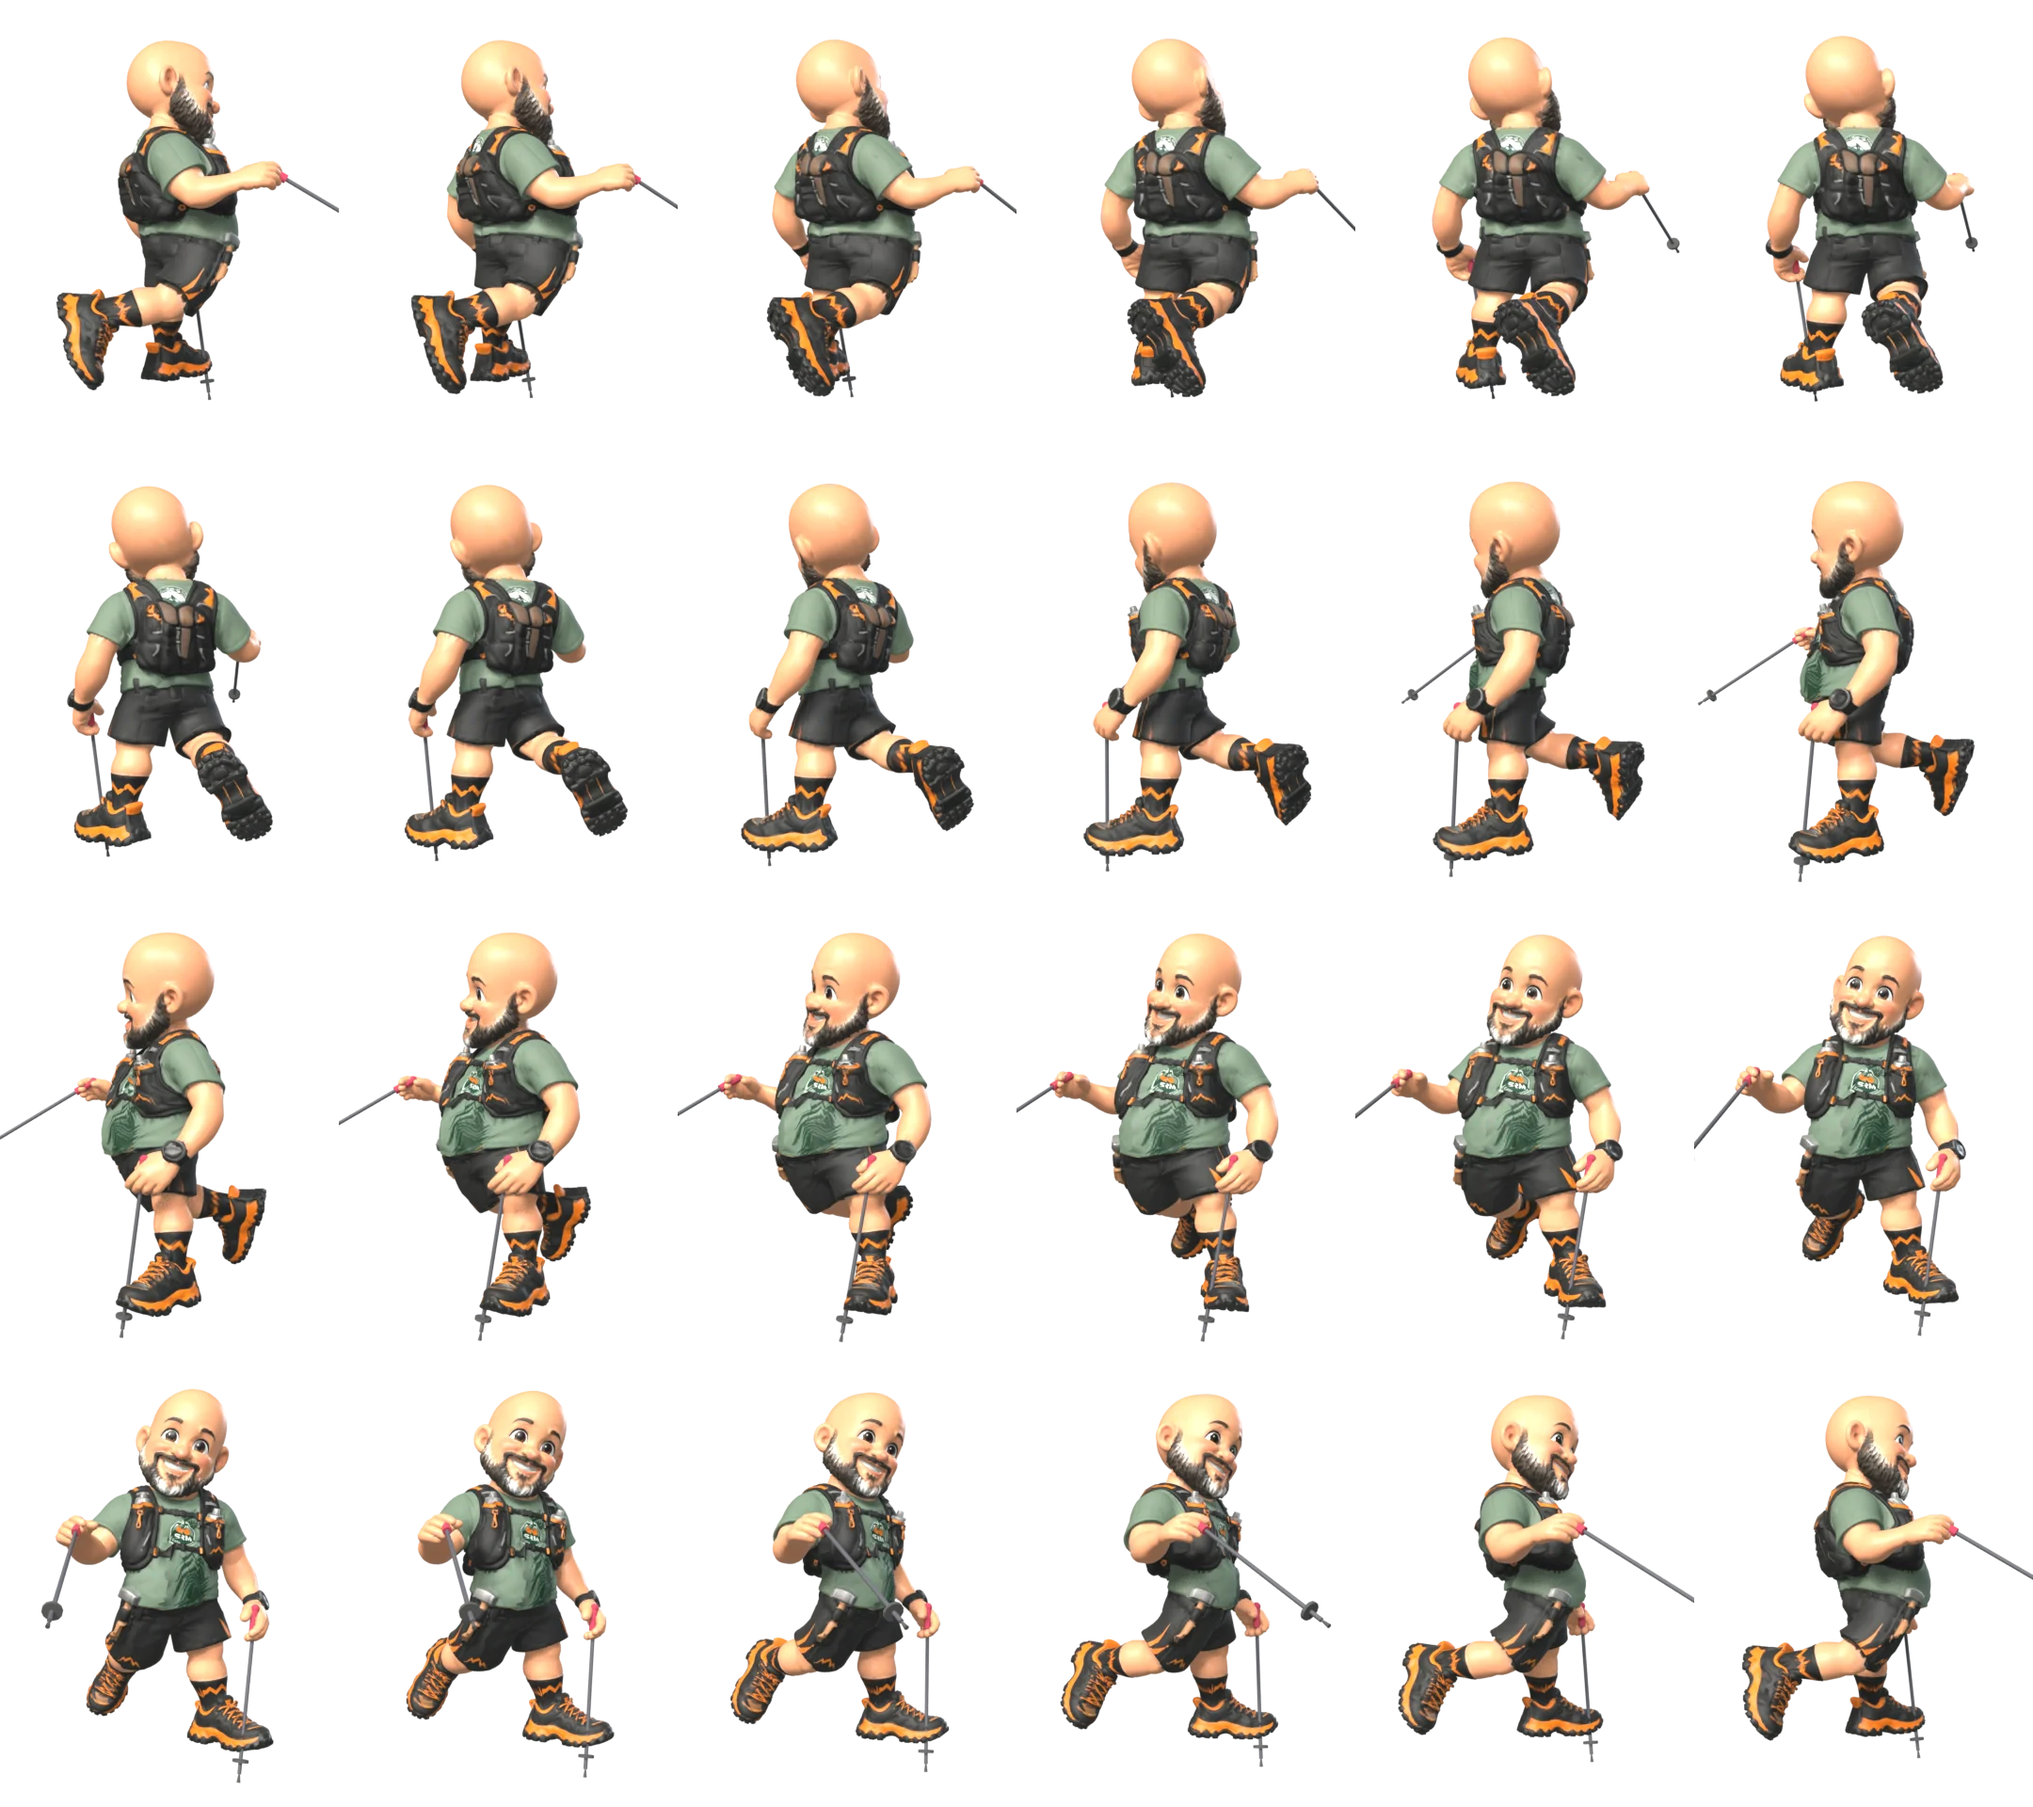
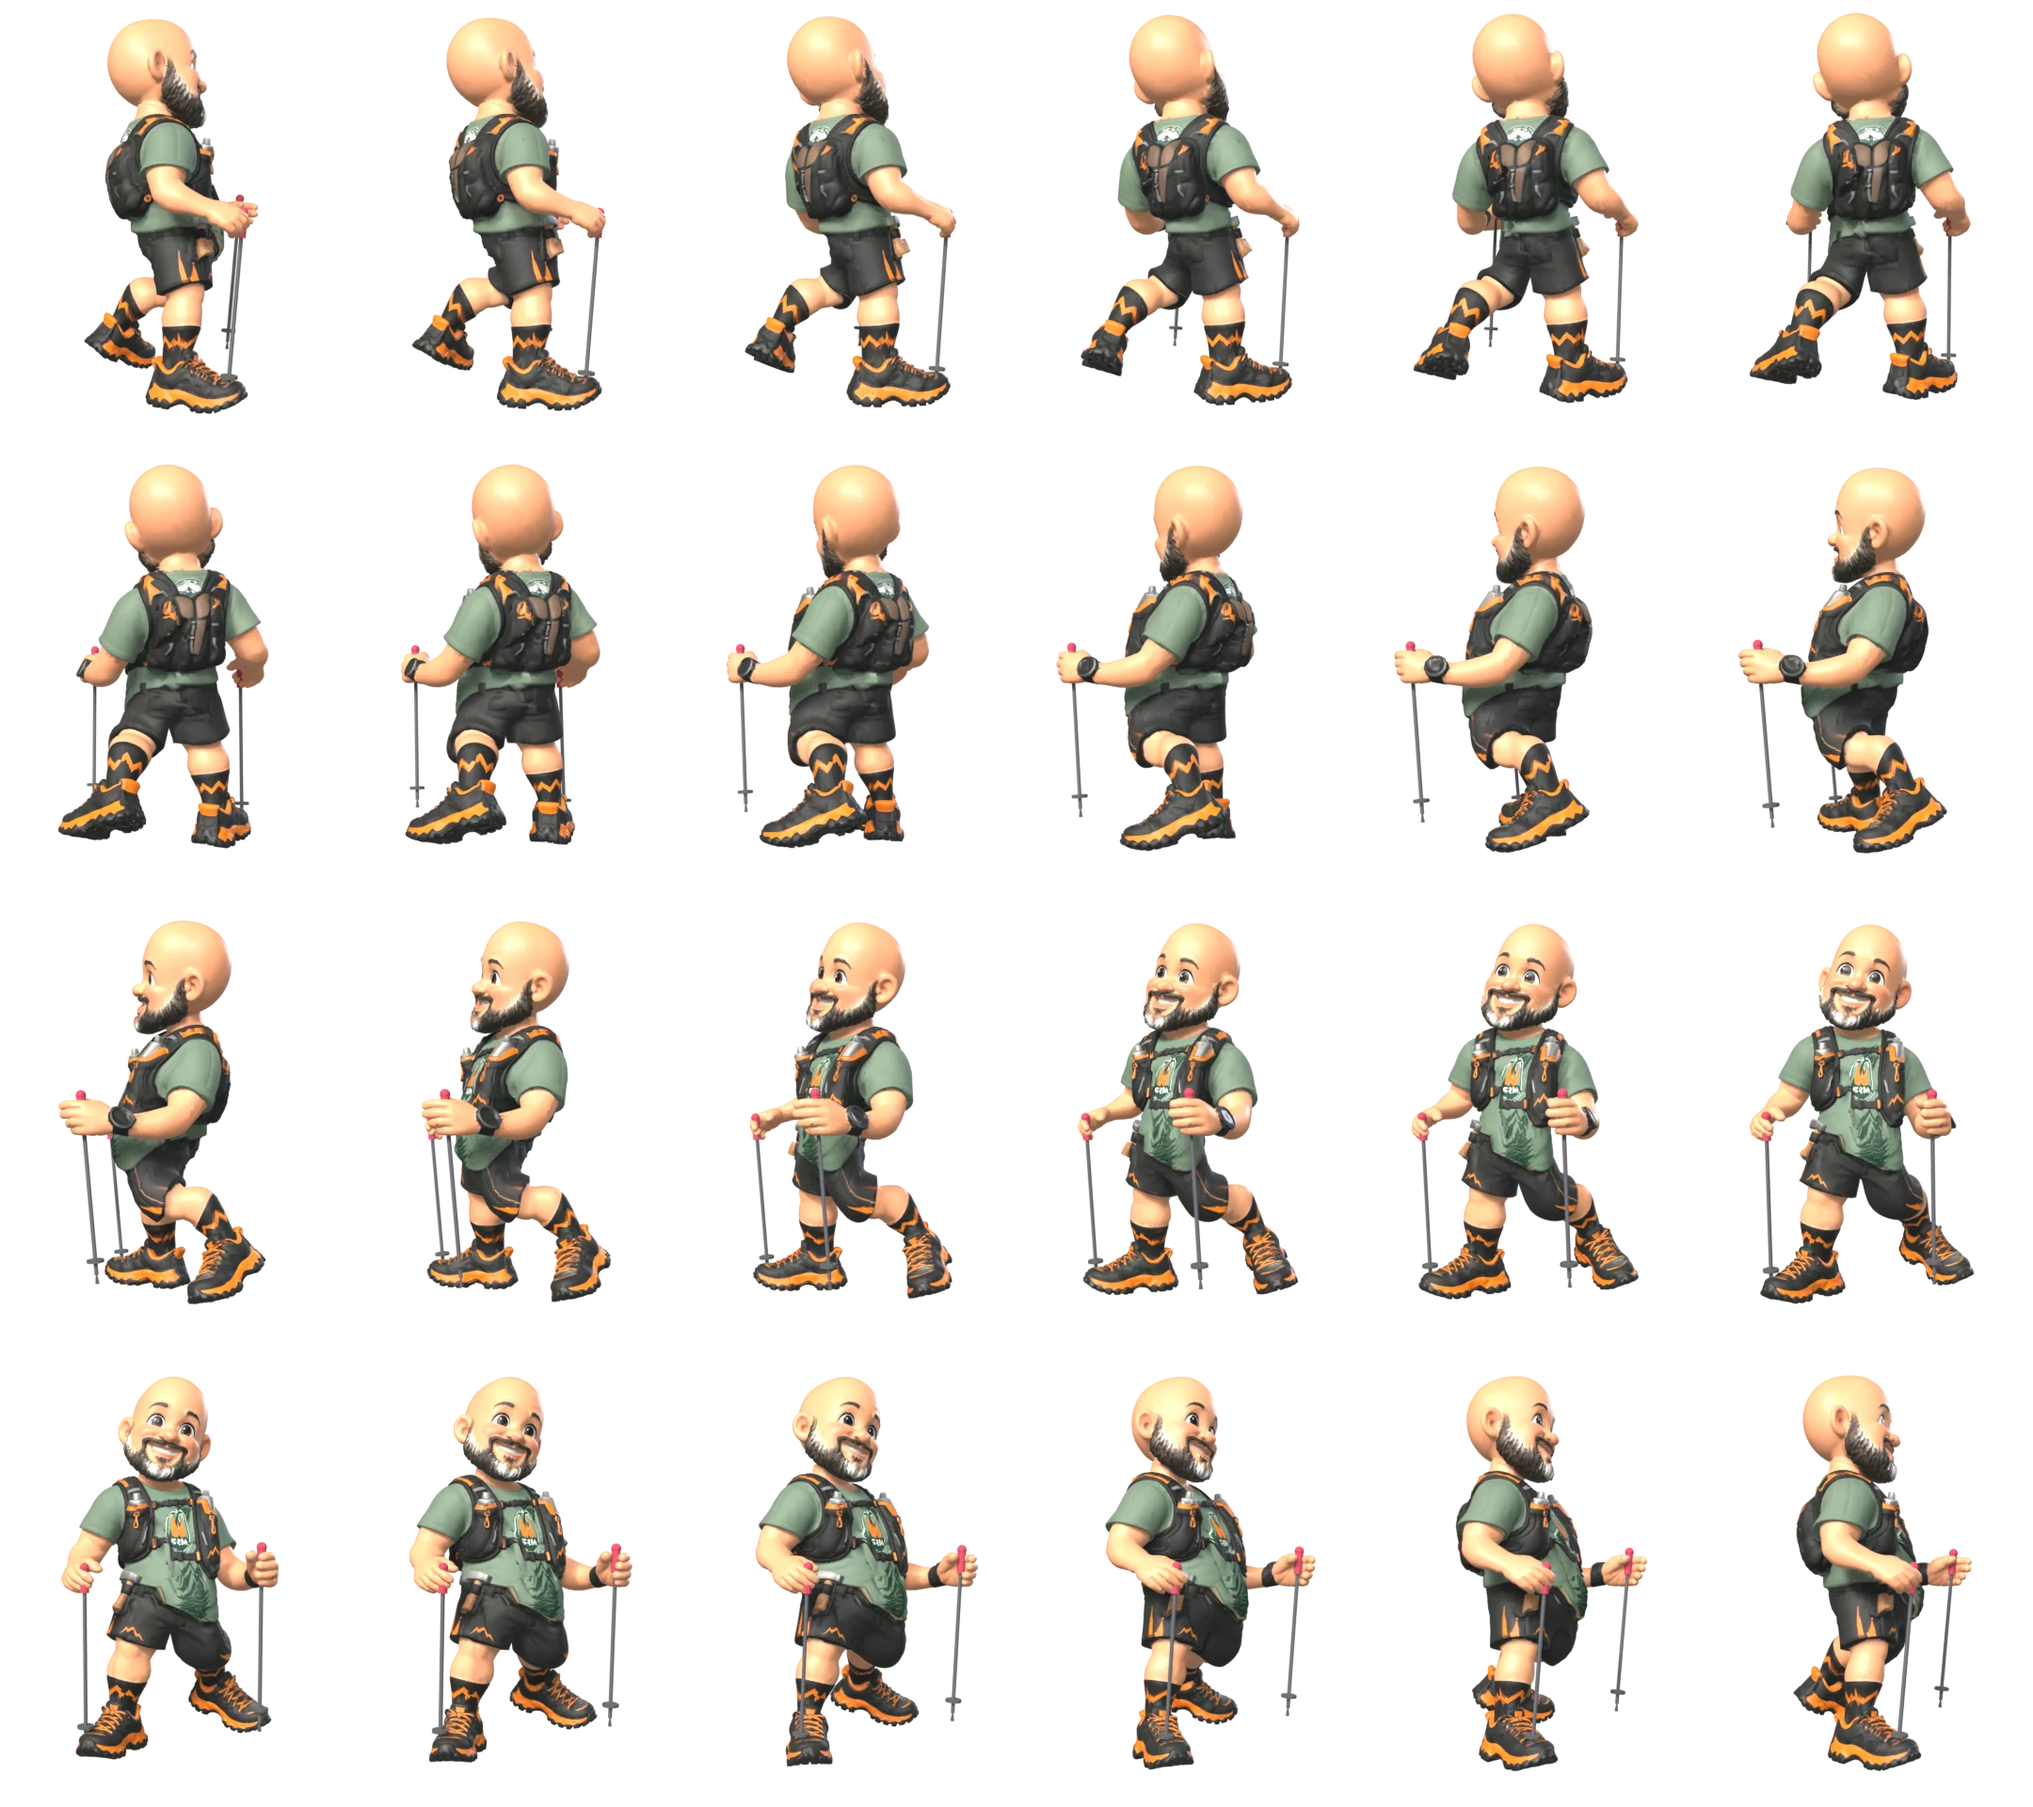
v20: Lino fermo e stabile nel loading, campo largo, asfalto grigio bordato
- export_spin riscritto: niente animazione di corsa nello sprite - posa in
  piedi costruita dal rig (gambe verticalizzate misurando i piedi, busto
  raddrizzato sulla verticale del mondo, piedi in piano e pareggiati,
  bastoncini piantati quasi verticali con la manopola ferma nel pugno).
  Camera dimensionata sul raggio orizzontale massimo reale (bastoncini
  inclusi): niente piu' tagli su desktop durante la rotazione.
- colorizeTrail riscritta: il nastro ha solo 2 colonne di vertici, quindi
  il bordo vive nel fragment shader (attributi aSide/aAsf + onBeforeCompile
  su MeshBasicMaterial). Tratti d'asfalto (0-0,5 / 26,16-26,67 sopra Massa
  d'Albe / 29,25-arrivo, da route.roads) grigi con contorno sottile
  arancione; transizione morbida ad arancio pieno sullo sterrato.
  Distanza laterale calcolata perpendicolare al segmento (il campionamento
  a passo 30 m falsava tutto).
- VER v37.

Claude-Session: https://claude.ai/code/session_01VEBQDSo5ANEP4daysucSJD

diff --git a/app.js b/app.js
@@ -5,7 +5,7 @@ import { OrbitControls } from 'three/addons/controls/OrbitControls.js';
 import { GLTFLoader } from 'three/addons/loaders/GLTFLoader.js';
 import { DRACOLoader } from 'three/addons/loaders/DRACOLoader.js';
 
-const VER = 'v36';
+const VER = 'v37';
 let LOADT0 = 0;
 let cumDP = null;
 const $ = id => document.getElementById(id);
@@ -942,9 +942,14 @@ function poggia(obj, margine = 0.03){
   obj.position.y += gy - box.min.y + margine;
 }
 function colorizeTrail(mesh){
+  // nastro a 2 colonne di vertici: il bordo arancione sull'asfalto vive nel fragment shader
   const g = mesh.geometry, p = g.getAttribute('position');
   const col = new Float32Array(p.count * 3);
+  const aSide = new Float32Array(p.count);
+  const aAsf = new Float32Array(p.count);
   const orange = [0.907, 0.31, 0.012], brec = [0.44, 0.415, 0.365];
+  const ASF = (route.roads || []).filter(r => r.asf).map(r => [r.a, r.b])
+    .concat([[0, 0.50], [29.25, route.total_km]]);
   for (let i = 0; i < p.count; i++) {
     const x = p.getX(i), z = p.getZ(i);
     let best = 1e12, bj = 0;
@@ -953,26 +958,43 @@ function colorizeTrail(mesh){
       const d = dx * dx + dz * dz;
       if (d < best) { best = d; bj = j; }
     }
-    const km = bj / (N - 1) * route.total_km;
-    const t = clamp((km - 5.72) / 0.16, 0, 1) * clamp((6.68 - km) / 0.16, 0, 1);
-    let ta = 0;
-    for (const r of (route.roads || [])) {
-      if (!r.asf) continue;
-      ta = Math.max(ta, clamp((km - r.a + 0.06) / 0.1, 0, 1) * clamp((r.b - km + 0.06) / 0.1, 0, 1));
+    for (let j = Math.max(0, bj - 3); j <= Math.min(N - 1, bj + 3); j++) {
+      const dx = route.x[j] - x, dz = -route.y[j] - z;
+      const d = dx * dx + dz * dz;
+      if (d < best) { best = d; bj = j; }
     }
+    const km = bj / (N - 1) * route.total_km;
+    // lato del nastro (0/1): segno rispetto alla tangente locale
+    const j0 = Math.min(bj, N - 2);
+    const tx = route.x[j0 + 1] - route.x[j0], tz = -route.y[j0 + 1] + route.y[j0];
+    const rx = x - route.x[j0], rz = z + route.y[j0];
+    aSide[i] = (tx * rz - tz * rx) > 0 ? 1 : 0;
+    let ta = 0;
+    for (const r of ASF) {
+      ta = Math.max(ta, clamp((km - r[0] + 0.06) / 0.1, 0, 1) * clamp((r[1] - km + 0.06) / 0.1, 0, 1));
+    }
+    aAsf[i] = ta;
+    const t = clamp((km - 5.72) / 0.16, 0, 1) * clamp((6.68 - km) / 0.16, 0, 1);
     let nz = Math.sin(x * 12.9898 + z * 78.233) * 43758.5453;
     nz = nz - Math.floor(nz);
-    const asfC = [0.155, 0.16, 0.175];
-    let rC = orange[0] * (1 - ta) + asfC[0] * ta, gC = orange[1] * (1 - ta) + asfC[1] * ta,
-        bC = orange[2] * (1 - ta) + asfC[2] * ta;
-    const nn = t > 0 ? 0.82 + 0.36 * nz : (ta > 0 ? 0.92 + 0.16 * nz : 1);
+    const nn = t > 0 ? 0.82 + 0.36 * nz : 1;
     for (let c = 0; c < 3; c++) {
-      const base = c === 0 ? rC : c === 1 ? gC : bC;
-      col[i * 3 + c] = (base * (1 - t) + brec[c] * t) * nn;
+      col[i * 3 + c] = (orange[c] * (1 - t) + brec[c] * t) * nn;
     }
   }
   g.setAttribute('color', new THREE.BufferAttribute(col, 3));
-  mesh.material = new THREE.MeshBasicMaterial({ vertexColors: true, side: THREE.DoubleSide });
+  g.setAttribute('aSide', new THREE.BufferAttribute(aSide, 1));
+  g.setAttribute('aAsf', new THREE.BufferAttribute(aAsf, 1));
+  const m = new THREE.MeshBasicMaterial({ vertexColors: true, side: THREE.DoubleSide });
+  m.onBeforeCompile = sh => {
+    sh.vertexShader = sh.vertexShader
+      .replace('#include <common>', '#include <common>\nattribute float aSide; attribute float aAsf; varying float vSide; varying float vAsf;')
+      .replace('#include <begin_vertex>', '#include <begin_vertex>\nvSide = aSide; vAsf = aAsf;');
+    sh.fragmentShader = sh.fragmentShader
+      .replace('#include <common>', '#include <common>\nvarying float vSide; varying float vAsf;')
+      .replace('#include <color_fragment>', '#include <color_fragment>\n{\n  float bordo = smoothstep(0.68, 0.86, abs(vSide * 2.0 - 1.0));\n  vec3 grigioAsf = vec3(0.30, 0.305, 0.32);\n  vec3 aranc = vec3(0.907, 0.31, 0.012);\n  diffuseColor.rgb = mix(diffuseColor.rgb, mix(grigioAsf, aranc, bordo), vAsf);\n}');
+  };
+  mesh.material = m;
 }
 
 

diff --git a/index.html b/index.html
@@ -163,7 +163,7 @@ html,body{height:100%;overflow:hidden;background:var(--verde);color:var(--avorio
     <div class="lab" id="g-lab">Cancello</div>
     <div class="val" id="v-g">&mdash;</div>
   </div>
-  <div id="logo-top"><img src="assets/srm_logo.png?v=36" alt="Skyrace del Maglio"></div>
+  <div id="logo-top"><img src="assets/srm_logo.png?v=37" alt="Skyrace del Maglio"></div>
   <div class="slot" id="slot-sent">
     <div id="chip">E1</div>
     <div id="sent-lab">SENTIERO PERCORSO</div>
@@ -193,7 +193,7 @@ html,body{height:100%;overflow:hidden;background:var(--verde);color:var(--avorio
 <div class="cover" id="loader">
   <div id="load-t">SRM <span>EXPLORER</span></div>
   <div id="load-sub">Skyrace del Maglio 2026 · percorso in 3D</div>
-  <img id="lino-nome" src="assets/lino_nome.png?v=36" alt="LINO">
+  <img id="lino-nome" src="assets/lino_nome.png?v=37" alt="LINO">
   <div id="spinbox">
     <div id="spin-img"></div>
     <svg id="spin-svg"></svg>
@@ -217,6 +217,6 @@ html,body{height:100%;overflow:hidden;background:var(--verde);color:var(--avorio
   "three/addons/":"https://cdn.jsdelivr.net/npm/three@0.169.0/examples/jsm/"
 }}
 </script>
-<script type="module" src="app.js?v=36"></script>
+<script type="module" src="app.js?v=37"></script>
 </body>
 </html>
